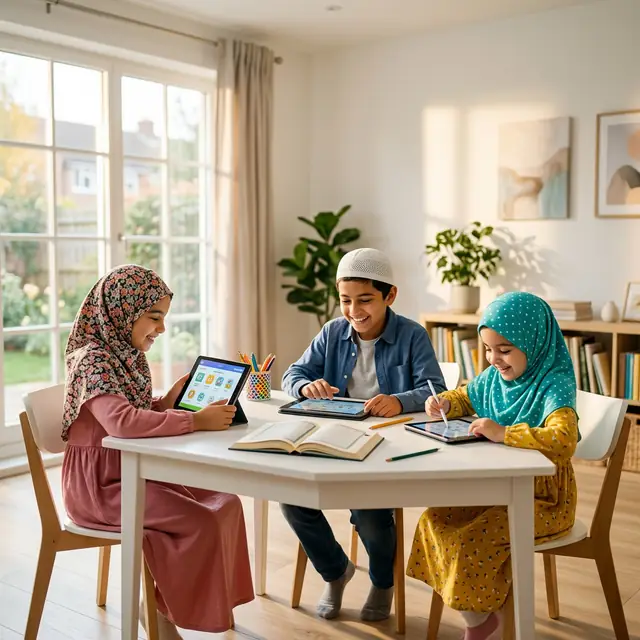
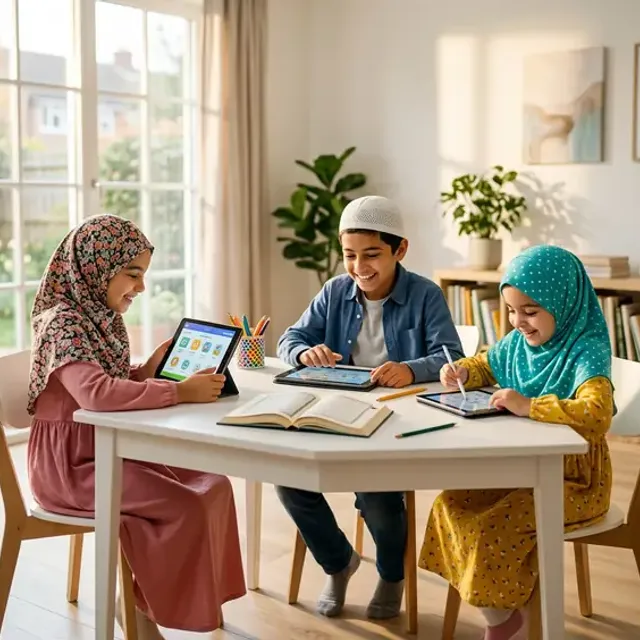
Update hero carousel slide 1 image to v3

diff --git a/scripts/convert-images.js b/scripts/convert-images.js
@@ -17,7 +17,7 @@ const SETTINGS = {
     'usaid.webp': { width: 600, quality: 75 },
 
     // Hero Slides: These were 600KB+. Resizing to 1600px and compressing.
-    'hero-slide-1-student.webp': { width: 1600, quality: 70 },
+    'hero-slide-1-student-v3.webp': { width: 1600, quality: 70 },
     'hero-slide-2-children.webp': { width: 1600, quality: 70 },
     'hero-slide-2-scholar.webp': { width: 1600, quality: 70 },
     'hero-slide-2-teacher.webp': { width: 1600, quality: 70 },

diff --git a/src/components/HeroCarousel.js b/src/components/HeroCarousel.js
@@ -5,7 +5,7 @@ import { ChevronRight } from 'lucide-react';
 const SLIDES = [
     {
         id: 1,
-        image: '/images/hero-slide-1-student.webp',
+        image: '/images/hero-slide-1-student-v3.webp',
         alt: 'A young Muslim student learning Quran online with a tablet – Almaas Online Quran Academy',
         label: 'For Every Child',
         heading: 'Leading Online Quran Academy\nfor Kids and Adults',
